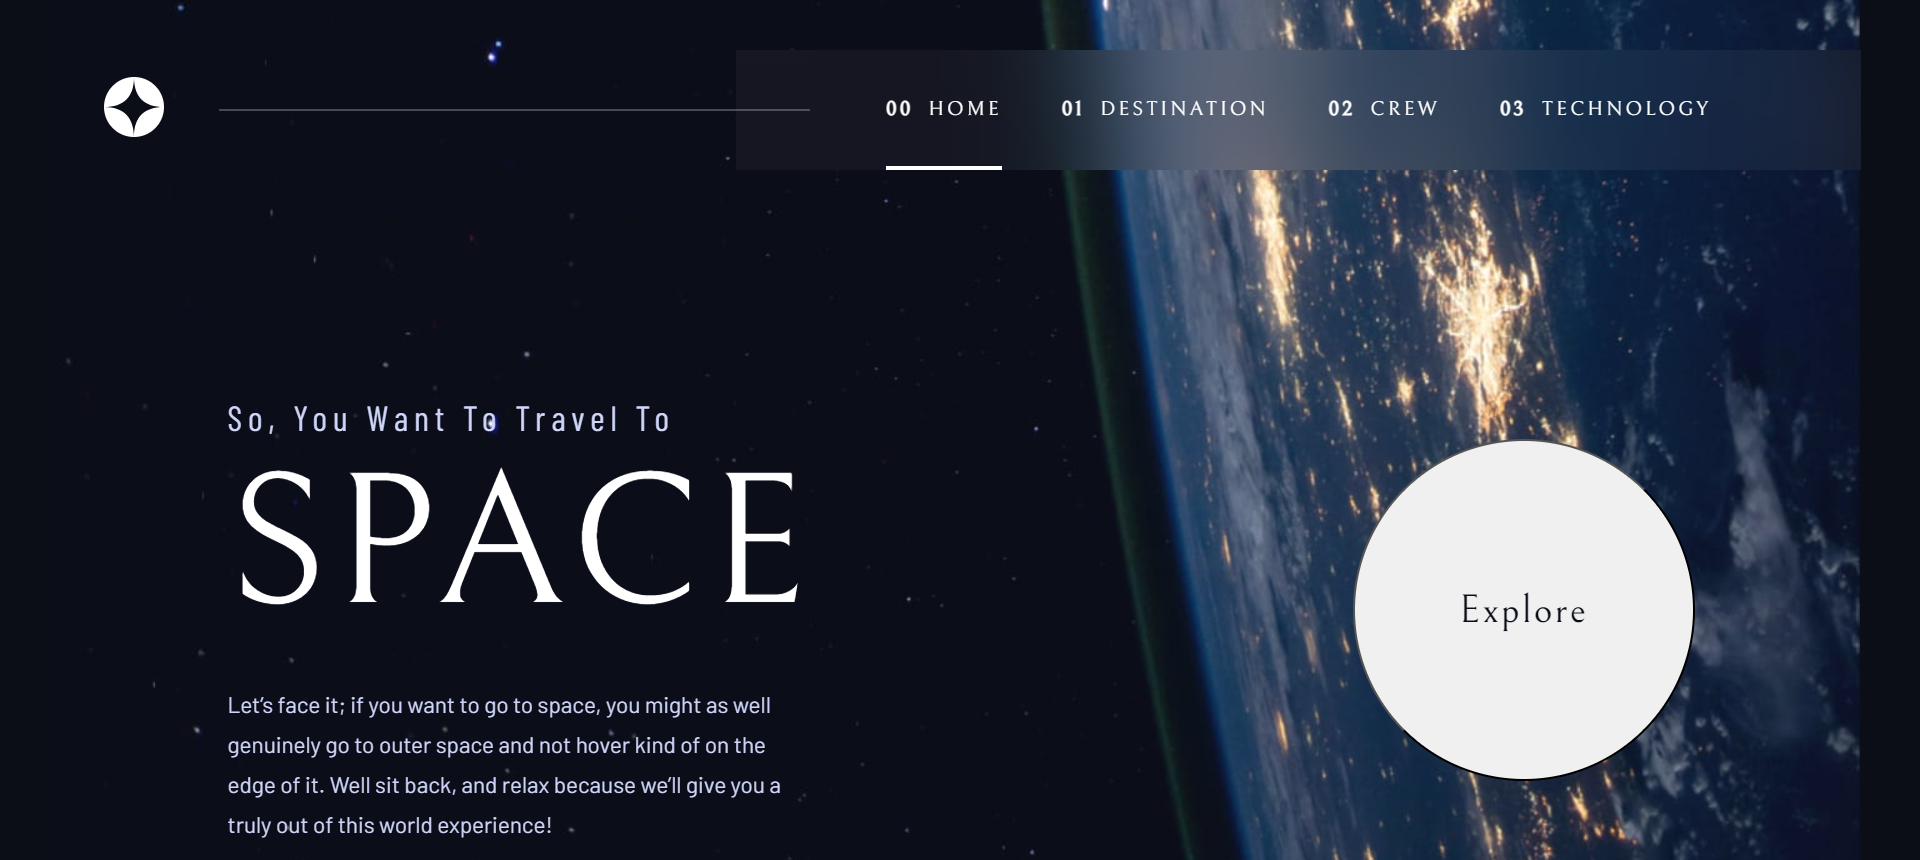
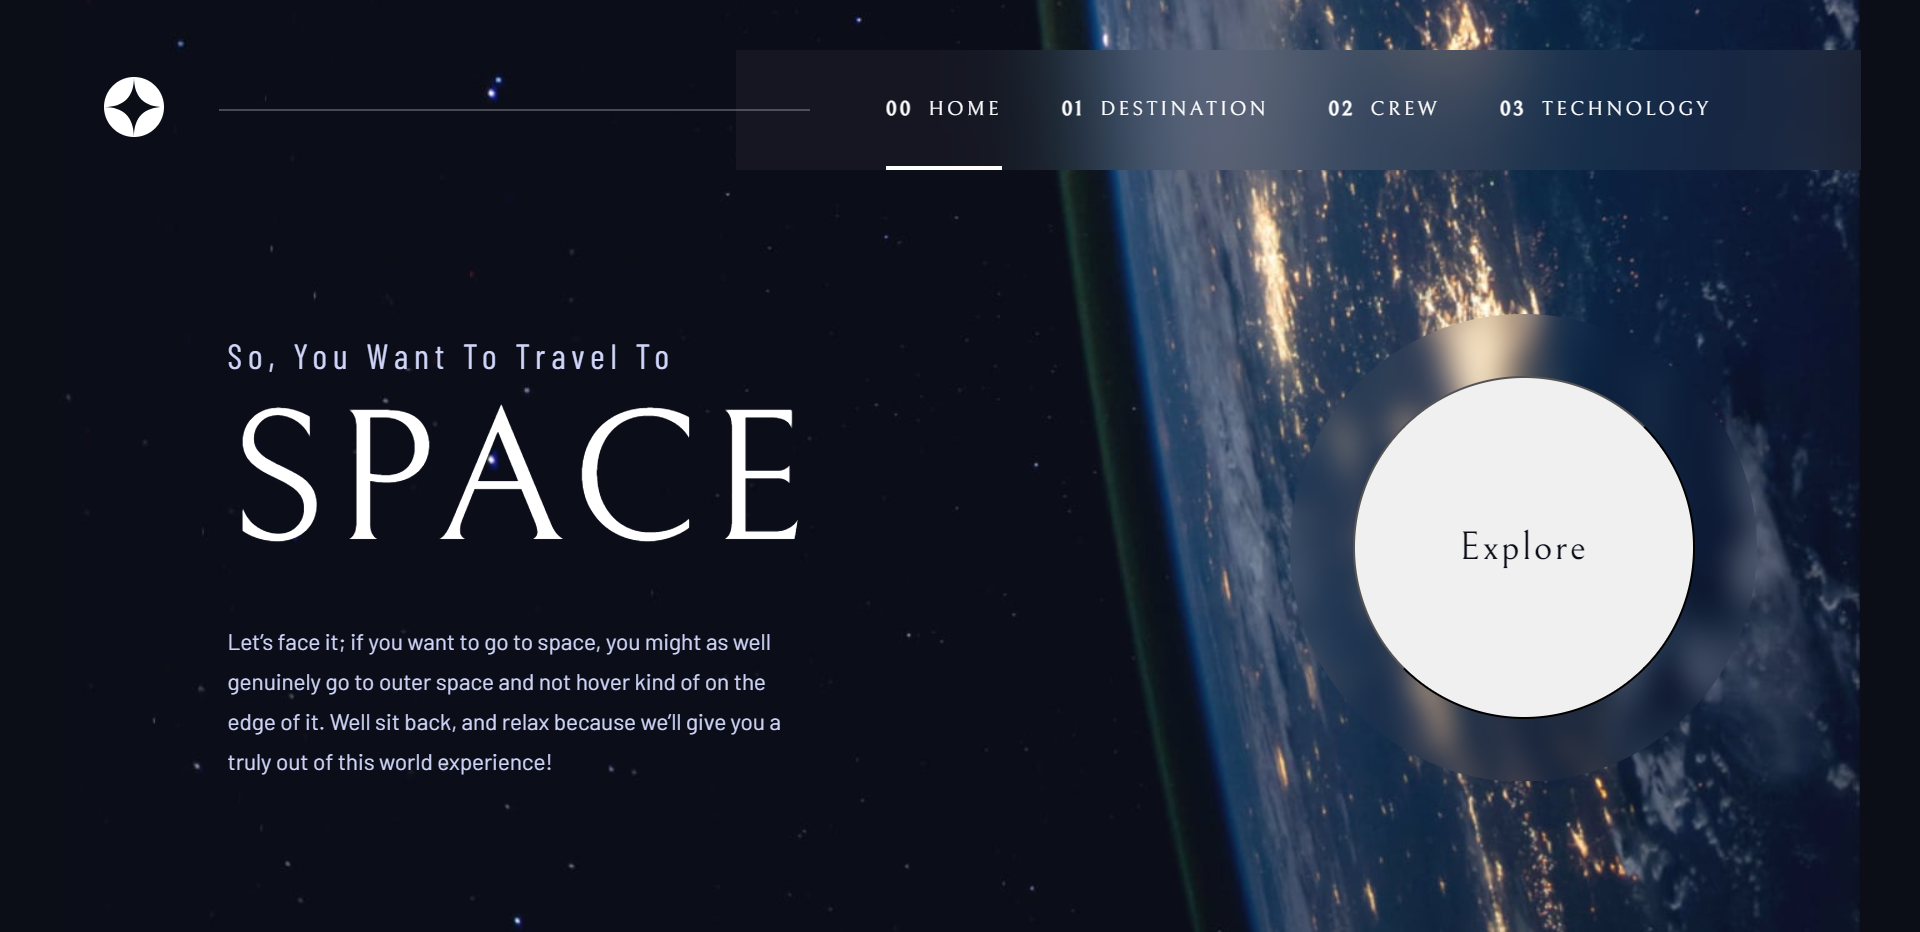
upadating readme file

diff --git a/client/src/components/hero/HeroSection.scss b/client/src/components/hero/HeroSection.scss
@@ -1,5 +1,5 @@
 .heroSection-container {
-  margin: 165px 82px 131px 134px;
+  margin: 115px 82px 131px 134px;
   display: flex;
   align-items: flex-end;
   justify-content: space-between;
